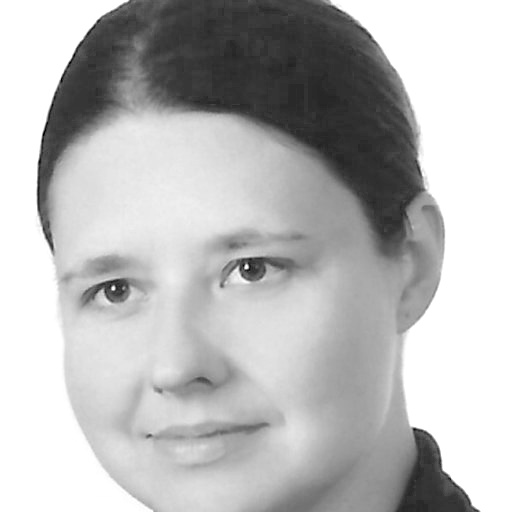
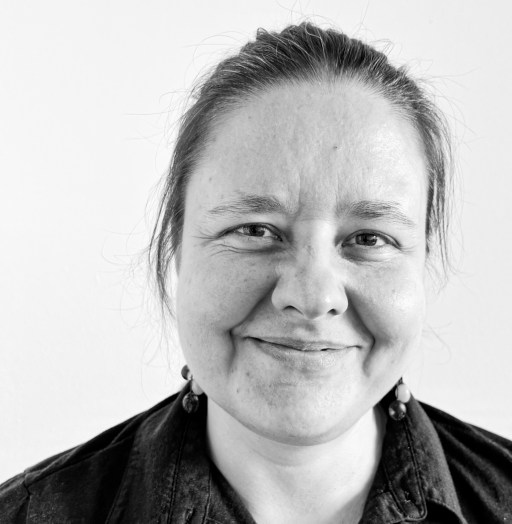
undo green links, update AM image, draft abstract sakshi

diff --git a/assets/scss/custom.scss b/assets/scss/custom.scss
@@ -50,10 +50,10 @@
   }
 
 
-  .btn {
-    color: #ffffff !important
-  }  
-  
+  // .btn {
+  //   color: #ffffff !important
+  // }  
+
   .btn-small {
     @apply border-primary bg-primary dark:border-darkmode-primary dark:text-dark text-white dark:bg-white rounded-sm px-4 py-1.5 text-sm;
   }
@@ -72,10 +72,17 @@
 }
 
 
-.content :is(:where(a):not(:where([class~="not-prose"],[class~="not-prose"] *))) {
-  --tw-text-opacity: 1;
-  color: #49a10e;
-  text-decoration-line: underline;
-  font-weight: 800;
-}
+// .content :is(:where(a):not(:where([class~="not-prose"],[class~="not-prose"] *))) {
+//   --tw-text-opacity: 1;
+//   color: #49a10e;
+//   text-decoration-line: underline;
+//   font-weight: 800;
+// }
 
+.content img {
+  max-width: 70%;
+  margin-bottom: 1.5rem;
+  align-items: center;
+  height: auto;
+  display: inline-block;
+}

diff --git a/content/english/abstracts/sakshi.md b/content/english/abstracts/sakshi.md
@@ -1,0 +1,38 @@
+---
+title: "Quantitative and Qualitative Analyses of Symmetry Independent C–F⋯F–C Interaction and C-H⋯F–C Hydrogen Bonds in a Biologically Potent Isoquinoline Derivative: Insights from Charge Density Analysisy"
+author: "Sakshi"
+affiliation: "Indian Institute of Science Education and Research Mohali"
+meta_title: ""
+description: ""
+date: 2025-06-21
+categories: ["Talk"]
+tags: ["H-bonding"]
+draft: true
+params:
+  math: true
+---
+
+#### Sakshi<sup>a</sup>, Yogita Gupta<sup>b</sup>, Angshuman Roy Choudhury<sup>a</sup>,\* and Parthapratim Munshi<sup>b</sup>\*
+
+##### <sup>a</sup>Department of Chemical Sciences, Indian Institute of Science Education and Research Mohali, 140306, India. <sup>b</sup>Chemical and Biological Crystallographic Laboratory, Department of Chemistry, School of Natural Sciences, Shiv Nadar University, Dadri, Uttar Pradesh-201314, India.
+
+##### Email: ph21091@iisermohali.ac.in
+
+Intermolecular interactions offered by halogens are versatile, unpredictable, and mostly stabilizing. Among the halogens, the interactions offered by fluorine deserve special attention due to its high electronegativity, low polarizability, and frequent occurrence in drugs and pharmaceuticals. The importance of C–H⋯F–C hydrogen bonds and C–F⋯F–C interactions in various organic molecules was demonstrated through structural and computational analysis [1,2]. The best understanding of such weak interactions can be achieved using experimental and theoretical charge density analysis based on the high-resolution X-ray diffraction data [3,4]. Herein, a symmetry-independent type I C–F⋯F–C interaction and C–H⋯F–C hydrogen bonds in the presence of symmetry-related C–H⋯F–C hydrogen bonds in an isoquinoline derivative have been quantified based on high-resolution X-ray diffraction data, which are devoid of any other stronger interactions like N–H⋯O, O–H⋯O, N–H⋯N, and O–H⋯O hydrogen bonds. Additionally, the potency of this molecule as an anti-implantation agent has been evaluated against the cyclooxygenase-2 (COX-2) enzyme through molecular docking studies. The stabilizing nature of the interactions involving organic fluorine in this biologically potent molecule has been confirmed using interaction energy calculations, qualitative analysis of electrostatic potential plots (Fig. 1), and topological analyses of electron density obtained from both experimental and theoretical charge density analyses. Interesting aspects of these studies will be presented.
+
+![3D Electrostatic potential plots highlighting the C–F⋯F–C interactions (left experimental, right theoretical).](/images/abstracts/sakshi.png)
+
+###### **Figure 1**. 3D Electrostatic potential plots highlighting the C–F⋯F–C interactions (left experimental, right theoretical).
+
+### References:
+
+[1] Kaur, G. & Choudhury, A. R. (2014). *Cryst. Growth Des.,***14**, 1600?1616.
+
+[2] Singla, L., Yadav, H. R. & Choudhury, A. R. (2022). *Cryst. Growth Des.,* **22 (3)**, 1604?1622.
+
+[3] Singla, L., Kumar, A., Robertson, C. M., Munshi, P. & Choudhury, A. R. (2023). *Cryst. Growth Des.,* **23**, 853û861.
+
+[4] Sakshi, Gupta, Y., Robertson, C. M., Munshi, P. & Choudhury, A. R.á(2025). *CrystEngComm,* **27**, 478û487.
+
+[5] Dunitz, J. D., Taylor, R. (1997). *Chem. Eur. J.,* **3**,89-98.
+

diff --git a/content/english/_index.md b/content/english/_index.md
@@ -64,6 +64,7 @@ features:
 
   - title: "Contact Us"
     content: "Please contact us with any questions and comments you may have."
+    image: "/images/castle.png"
     button:
       enable: true
       label: "Contact us at info@icdm10.org"
